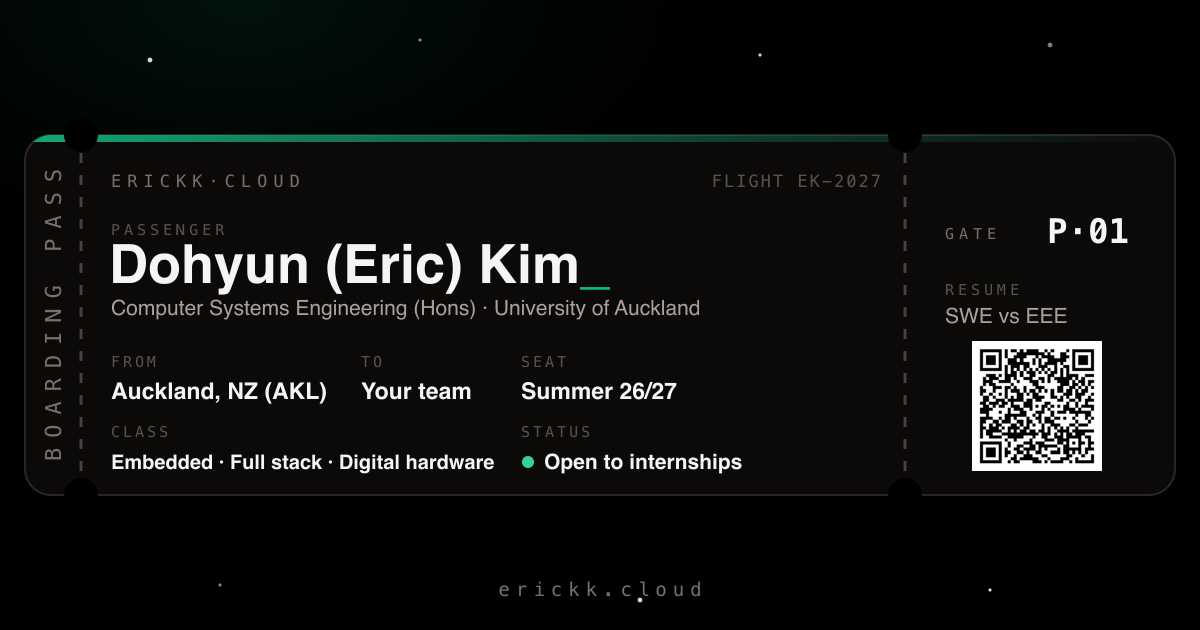
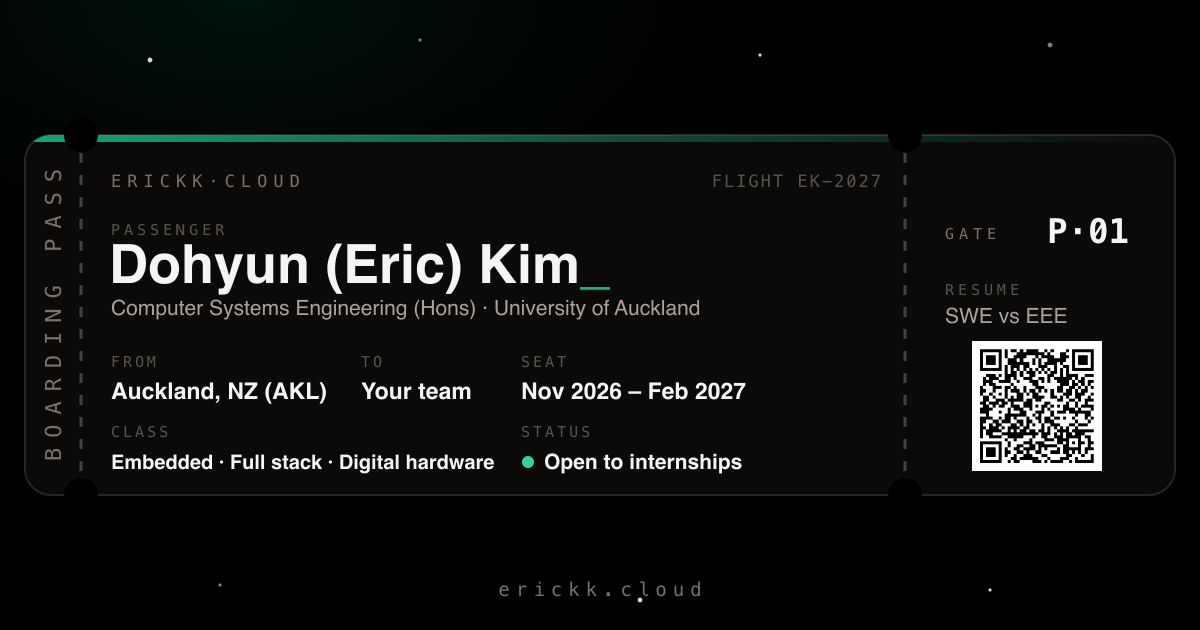
Refresh OG seat dates, bump deploy actions to v5

Changed region(s): [[0.8017, 0.573, 0.925, 0.754], [0.4317, 0.6032, 0.6167, 0.6333]]

diff --git a/index.html b/index.html
@@ -20,12 +20,12 @@
       property="og:description"
       content="Computer Systems Engineering student at the University of Auckland. Embedded systems, software integration, and cloud. Open to internship opportunities."
     />
-    <meta property="og:image" content="https://erickk.cloud/og-image.png?v=3" />
+    <meta property="og:image" content="https://erickk.cloud/og-image.png?v=4" />
     <meta property="og:image:width" content="1200" />
     <meta property="og:image:height" content="630" />
     <meta property="og:url" content="https://erickk.cloud/" />
     <meta name="twitter:card" content="summary_large_image" />
-    <meta name="twitter:image" content="https://erickk.cloud/og-image.png?v=3" />
+    <meta name="twitter:image" content="https://erickk.cloud/og-image.png?v=4" />
 
     <!-- Structured data for search engines -->
     <script type="application/ld+json">
